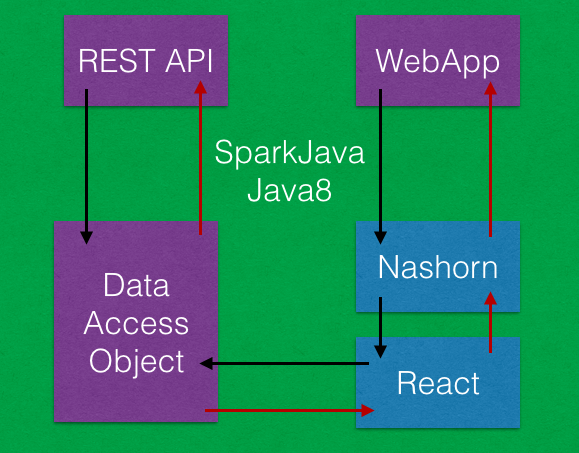
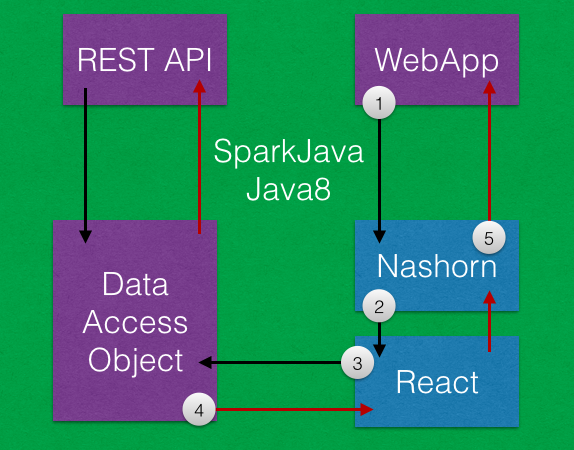
README

diff --git a/README.md b/README.md
@@ -6,19 +6,19 @@
 
 ## Basic Idea
 
-To build a Java 8 based process with an embedded rest-api and web application where the web application user interface could be constructed using the React JavaScript framework via the Nashorn engine.
+A Java 8 process with an embedded rest-api and web application, where the web application user interface is constructed using the React JavaScript components via the Nashorn engine with access to Java services.
 
 
 ##### The REST api
 
-The rest-api provides a simple (yet richer than the usual todo list) [`task`](src/main/java/me/roybailey/model/Task.java) data model encapsulated behind an interface (the typical Data-Access-Object pattern).  For the purpose of this exercise the tasks are seeded from a small sample of data and kept in-memory.  There are only a couple of read operations defined as the main focus is to render data.  However, this Data-Access-Object implementation could be swapped out for any Java based database or messaging connection and enriched to include fully functional CRUD (create, read, update, delete) functionality.
+The rest-api provides a simple (yet richer than the usual todo list) [`task`](src/main/java/me/roybailey/model/Task.java) data model encapsulated behind a [TaskService interface](src/main/java/me/roybailey/service/TaskService.java) (the typical Data-Access-Object pattern).  For the purpose of this exercise the tasks are seeded from a small sample of data and kept in-memory.  There are only a couple of read operations defined as the main focus is to render data.  However, this Data-Access-Object implementation could be swapped out for any Java based database or messaging connection and enriched to include fully functional CRUD (create, read, update, delete) functionality.
 
 > See [`RestfulController`](src/main/java/me/roybailey/http/RestfulController.java)
 
 
 ##### The User Interface
 
-The first version of [Bootstrap-Admin-Theme](https://github.com/VinceG/Bootstrap-Admin-Theme) by Vincent Gabriel is purely a static copy of the original with the dashboard sidebar changed to provide the menu of demonstration links.  Useful for showing how rich static content can be rendered easily with [SparkJava](http://sparkjava.com/).
+The first version of [Bootstrap-Admin-Theme](https://github.com/VinceG/Bootstrap-Admin-Theme) is purely a static copy of the original with the dashboard sidebar changed to provide the menu of demonstration links.  Useful for showing how rich static content can be rendered easily with [SparkJava](http://sparkjava.com/).
 
 ![SideBar](docs/sidebar.png)
 
@@ -28,6 +28,8 @@ The second version is the [Dashboard content rendered by ReactJS](src/main/jsx/d
 ##### Setting up Nashorn with ReactJS
 
 **[Npm](https://www.npmjs.com/)** is used to download JavaScript packages.  **[Grunt](http://gruntjs.com/)** is used to compile `jsx` and to create a ***bundle.js*** of all Javascript needed for Nashorn.  This keeps the Java Nashorn loading code simple.
+
+> Java to setup Nashorn
 
 ```Java
         nashorn = (NashornScriptEngine) new ScriptEngineManager().getEngineByName("nashorn");
@@ -49,6 +51,14 @@ Creating the Nashorn engine instance is simple enough, although there is a littl
 
 The ability to use 'Dependency Injection' into your JavaScript makes it possible to access any Java services you have while rendering a page.  There may need to be some data type conversions but this is a very powerful option and avoids trying to find JavaScript drivers for everything.
 
+> JavaScript to call back into Java services
+
+```JavaScript
+    loadTaskDataFromJavaDirectly: function () {
+        return Java.from(JavaTaskService.getTaskList(this.props.skip, this.props.limit));
+    },
+```
+
 Lastly we leverage `npm` and `grunt` to create a ***bundle.js*** containing ReactJS and any other libraries you wish to have access to.  *Note: this bundle.js is a simple Grunt concatenation bundle using `uglify`, not a `webpack` or `browserify` bundle*.
 
 
@@ -56,20 +66,21 @@ Lastly we leverage `npm` and `grunt` to create a ***bundle.js*** containing Reac
 
 Calling the rest-api will perform all operations in Java; the rest-api converts the incoming endpoint into calls to the data-access-object.  However, the web application calls take the following route:
 
-1. `java8` [SparkJava](http://sparkjava.com/) endpoint loads a template file
-1. `java8` calls a rendering function in the Nashorn JavaScript engine with properties from the Java process (mapped from the request query parameters)
+1. `java8` [SparkJava](http://sparkjava.com/) calls a rendering function in the Nashorn JavaScript engine with properties from the Java process (mapped from the request query parameters)
 1. `nashorn` starts rendering the component graph using `React.renderToString`
-1. `nashorn` calls any Java services for data *at the time of rendering* (e.g. `getTasks()`)
-1. `java8` service can do anything Java can do and return results to `nashorn` 
+1. `nashorn` calls any Java services for data *at the time of rendering*
+1. `java8` service can do anything Java can do and return results to the React component renderer
 1. `nashorn` completes and returns the rendered content to `java8`
-1. `java8` maps the `title` and `content` into the HTML template and return the response 
+1. `java8` maps the `title` and `content` into a HTML template and returns the response 
 
 ![Java8 React Diagram](docs/java8react.png)
 
 
 ##### Testing
 
-This entire project is one big test so the only unit tests focus on testing the rest-api using [Retrofit](http://square.github.io/retrofit/) interface.  A beautifully simple way to define your api as a Java interface and leave the plumbing up to the Retrofit library.
+This entire project is one big test so the only unit tests focus on testing the rest-api using [Retrofit](http://square.github.io/retrofit/).  Retrofit allows you to define a simple interface for your rest-api and leave the plumbing up to the Retrofit library.  A real gem!
+
+> Java interface of RESTful api (See [`RestfulService`](src/main/java/me/roybailey/http/RestfulService))
 
 ```Java
 public interface RestfulService {
@@ -82,7 +93,7 @@ public interface RestfulService {
 }
 ```
 
-> See [`RestfulService`](src/main/java/me/roybailey/http/RestfulService)
+> Java test example using [Retrofit](http://square.github.io/retrofit/) (See [`RestfulControllerTest`](src/test/java/me/roybailey/http/RestfulControllerTest))
 
 ```Java
     RestAdapter restAdapter = new RestAdapter.Builder()
@@ -93,9 +104,8 @@ public interface RestfulService {
     List<Task> tasks = response.content;
 ```
 
-> See [`RestfulControllerTest`](src/test/java/me/roybailey/http/RestfulControllerTest)
 
-This project was built and tested on a Mac laptop, using Chrome, with JDK 1.8.0_05-b13.  It has not been tested/built on any Windows or Linux platforms but should all work being Java based.
+This project was built and tested on a Mac laptop, using Chrome, with `JDK 1.8.0_05-b13`.  It has not been tested/built on any Windows or Linux platforms but should work providing you have a Java 8 installed.
 
 
 ## Dependencies
@@ -112,7 +122,7 @@ SparkJava and Guava keep the overall dependencies lightweight (not even a single
 Also using **[Quava](https://code.google.com/p/guava-libraries/)** and a choice of **[Gradle](http://gradle)** or **[Maven](http://maven.apache.org)** for Java builds.
 
 
-## Getting Started
+## Taking it for a spin
 
 Make sure you have `JDK 1.8.0_05-b13` or above.
 
@@ -124,6 +134,16 @@ command | description
 [`DemoService`](src/main/java/me/roybailey/http/DemoService.java) | Start Web Application [http://localhost:4545](http://localhost:4545)
 
 Alternatively run the `gradle installApp` command to create a runnable distribution package in `build/install/sparkjava-retrofit-react` and run the appropriate script in the `bin` folder.
+
+> These dials are using a JavaScript charting library but are rendered using ReactJS with data from Java
+
+![JavaScript charts with data from Java](docs/dials.png)
+
+> These tables are rendered using ReactJS with data from Java, one table uses direct Java service, the other Java service calls a rest-api from within Java to obtain the same data
+
+![ReactJS Tables](docs/tables.png)
+
+_the `?skip=2&limit=4` parameters on the request URL are passed into ReactJS and back to Java services_
 
 
 ## License
